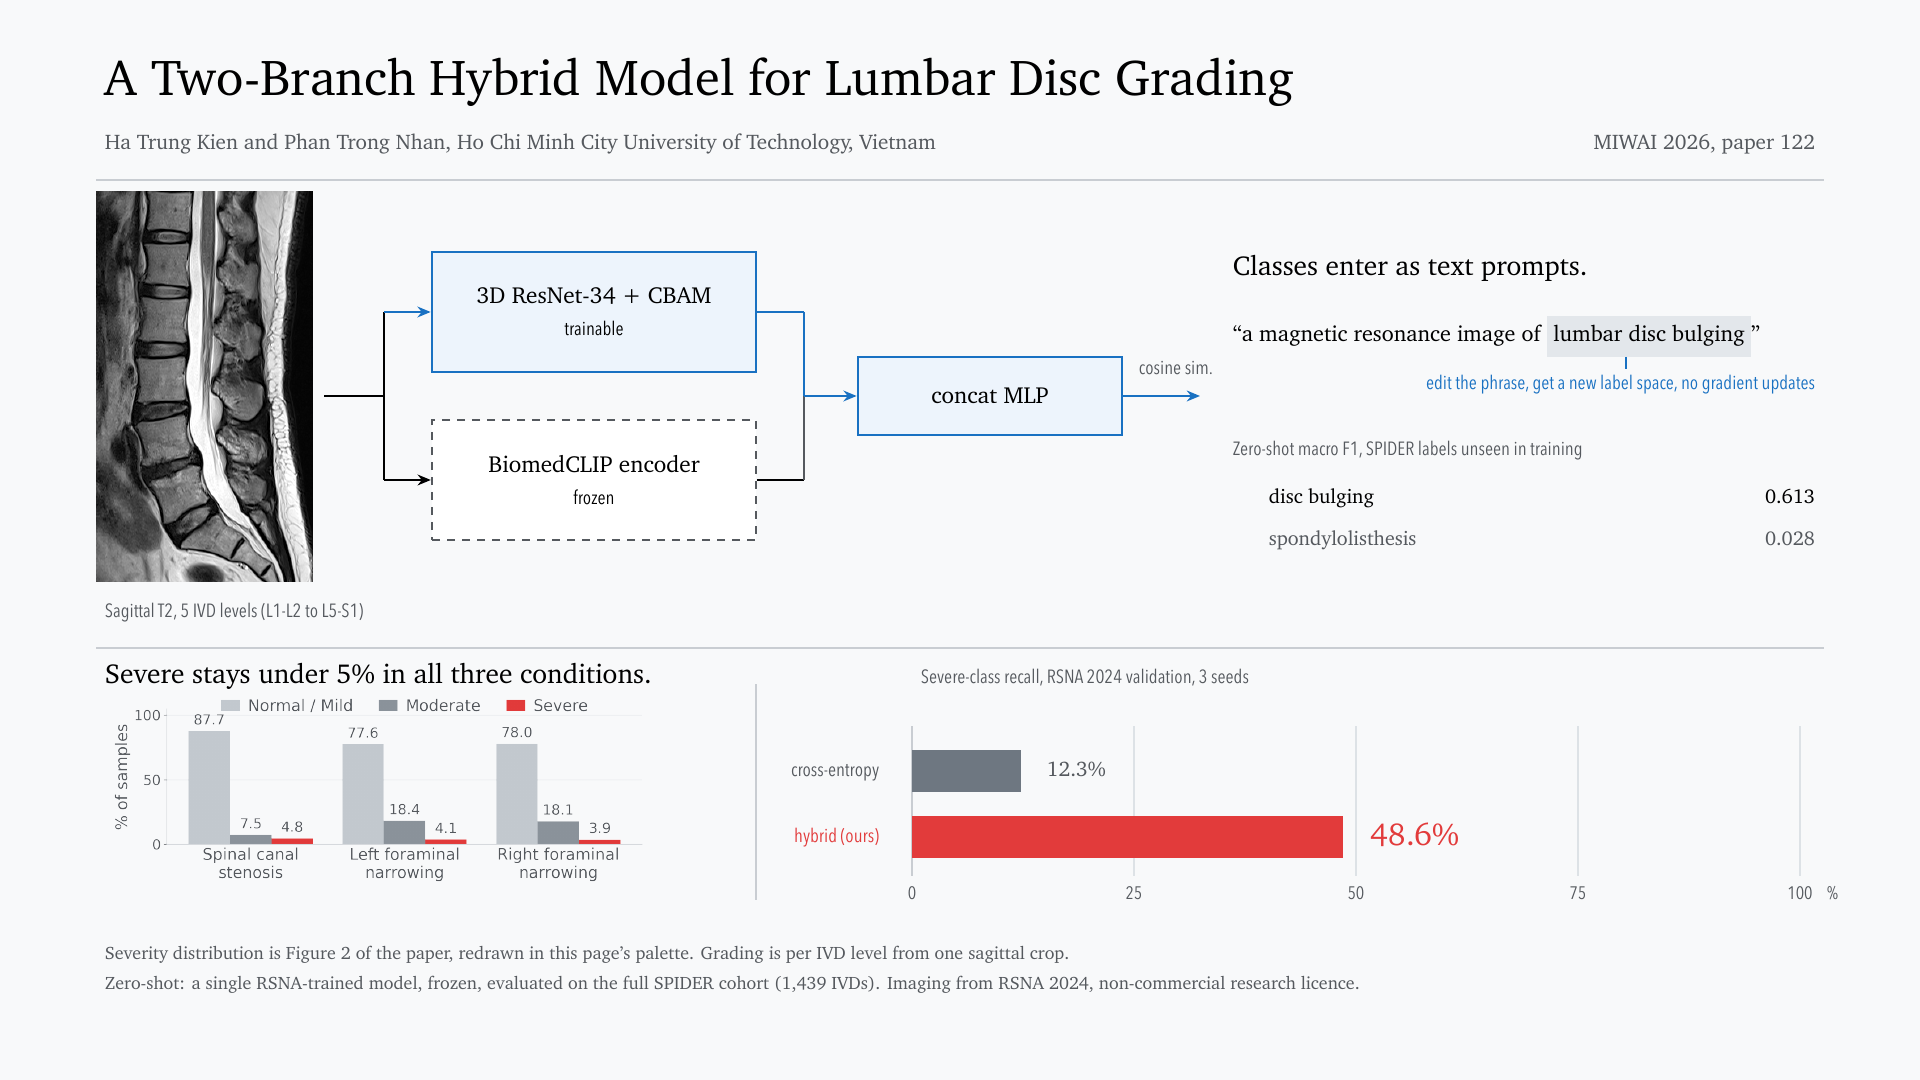
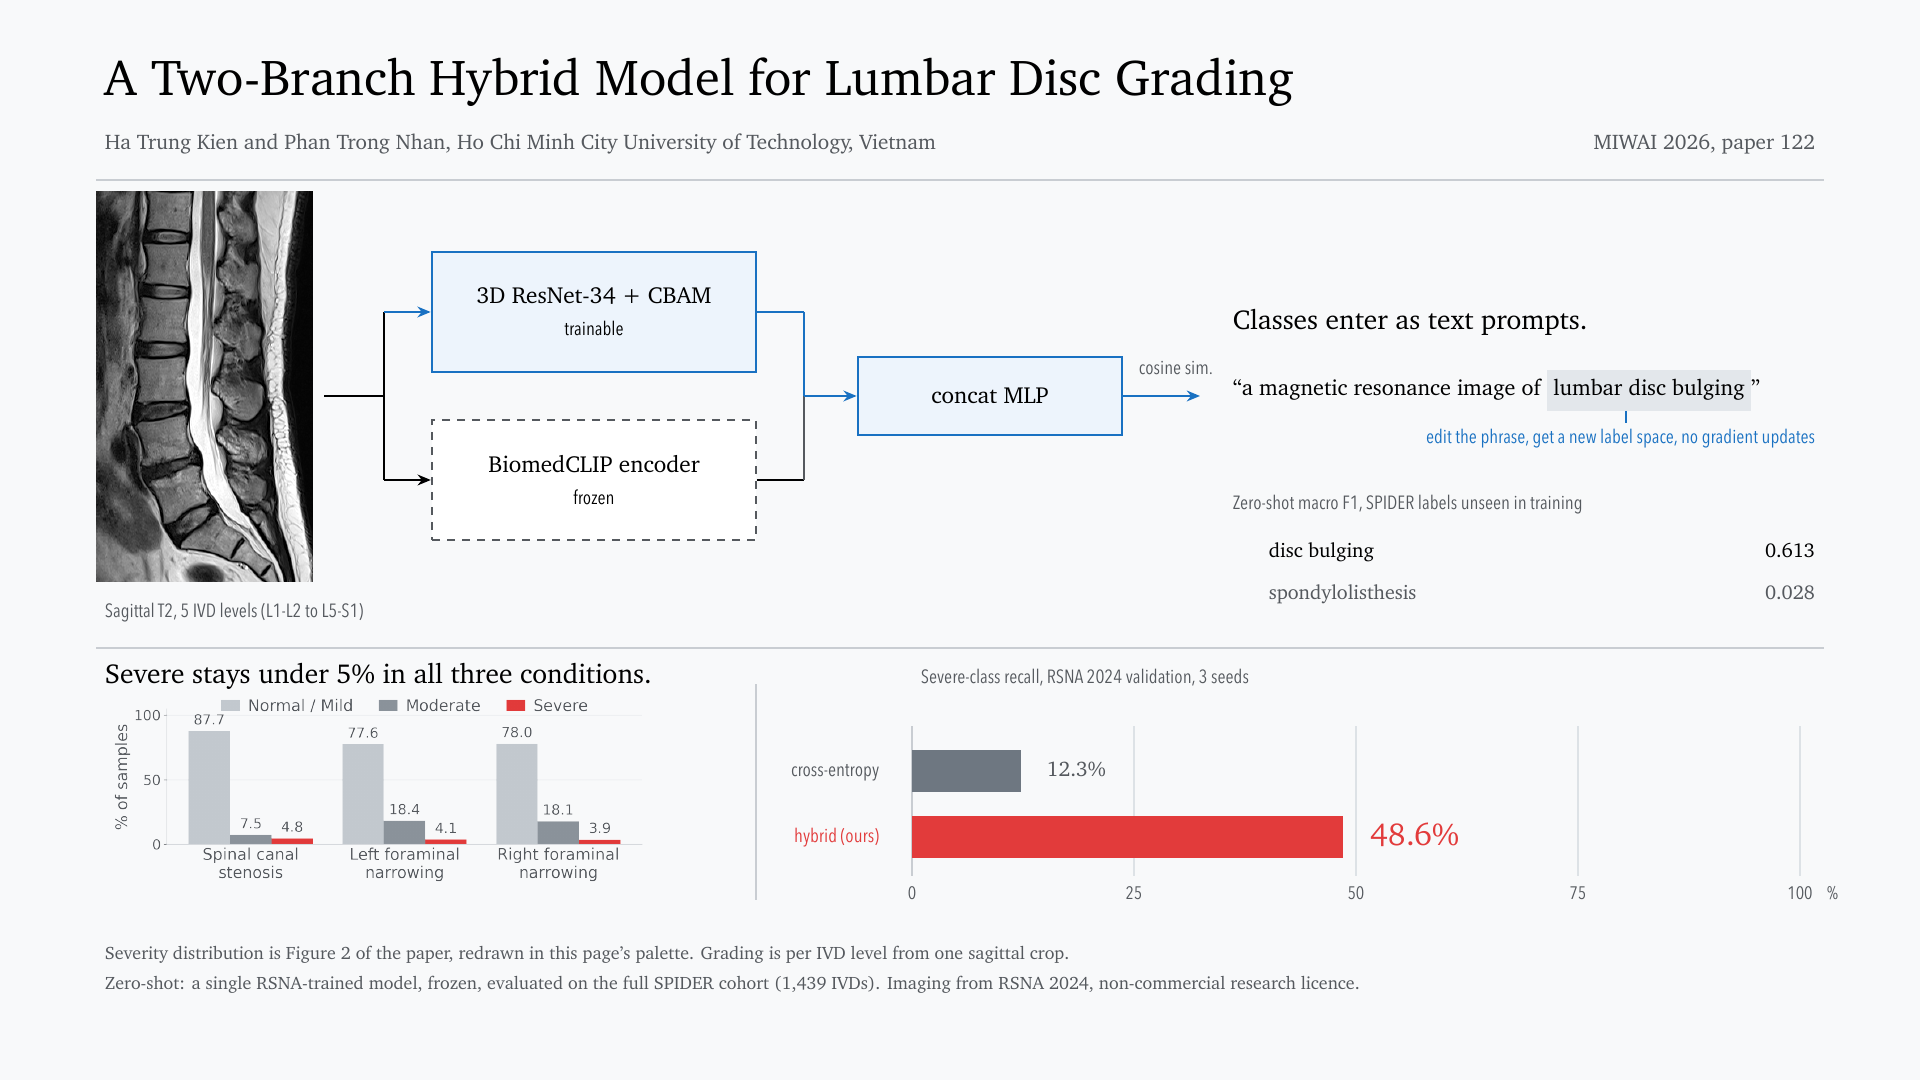
miwai(async): the cosine arrow was pointing at nothing
It left the concat MLP at the box's own height and stopped in the gap between
the prompt heading and the results, so the one arrow that carries the paper's
argument ended in blank page. The prompt block drops nine millimetres and the
arrow now lands on the prompt line itself, which is what the embedding is
actually matched against.

diff --git a/paper/camera_ready/miwai_async/infographic.tex b/paper/camera_ready/miwai_async/infographic.tex
@@ -121,19 +121,19 @@
 % would also have meant glossing f_img and y-hat, which is more text in the
 % place that can least afford it.
 \node[anchor=base west, font=\fontsize{13}{16}\selectfont]
-     at (204,134) {Classes enter as text prompts.};
-\node[anchor=base west, font=\fontsize{10.5}{13}\selectfont] at (204,123)
+     at (204,125) {Classes enter as text prompts.};
+\node[anchor=base west, font=\fontsize{10.5}{13}\selectfont] at (204,114)
      {``a magnetic resonance image of \colorbox{slot}{\strut lumbar disc bulging}''};
-\draw[trained, line width=0.35mm] (271,120.5) -- (271,118.5);
+\draw[trained, line width=0.35mm] (271,111.5) -- (271,109.5);
 \node[anchor=base east, text=trained, font=\cond\fontsize{9}{11}\selectfont]
-     at (304,115) {edit the phrase, get a new label space, no gradient updates};
+     at (304,106) {edit the phrase, get a new label space, no gradient updates};
 
 \node[anchor=base west, text=ink70, font=\cond\fontsize{9}{11}\selectfont]
-     at (204,104) {Zero-shot macro F1, SPIDER labels unseen in training};
-\node[anchor=base west, font=\fontsize{9.5}{12}\selectfont] at (210,96) {disc bulging};
-\node[anchor=base east, font=\fontsize{9.5}{12}\selectfont] at (304,96) {0.613};
-\node[anchor=base west, text=ink70, font=\fontsize{9.5}{12}\selectfont] at (210,89) {spondylolisthesis};
-\node[anchor=base east, text=ink70, font=\fontsize{9.5}{12}\selectfont] at (304,89) {0.028};
+     at (204,95) {Zero-shot macro F1, SPIDER labels unseen in training};
+\node[anchor=base west, font=\fontsize{9.5}{12}\selectfont] at (210,87) {disc bulging};
+\node[anchor=base east, font=\fontsize{9.5}{12}\selectfont] at (304,87) {0.613};
+\node[anchor=base west, text=ink70, font=\fontsize{9.5}{12}\selectfont] at (210,80) {spondylolisthesis};
+\node[anchor=base east, text=ink70, font=\fontsize{9.5}{12}\selectfont] at (304,80) {0.028};
 
 \draw[rule, line width=0.2mm] (16,72) -- (304,72);
 
